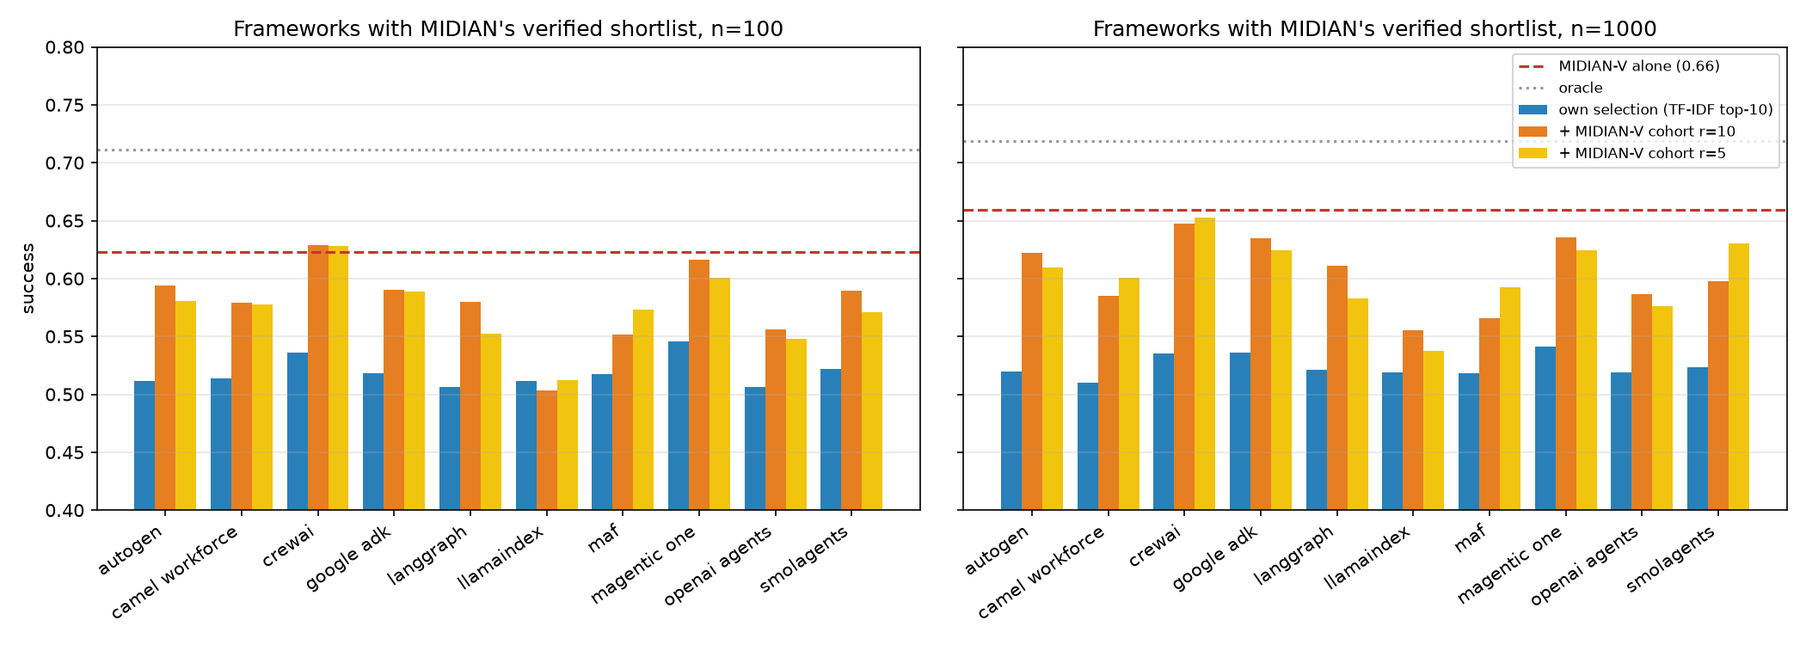
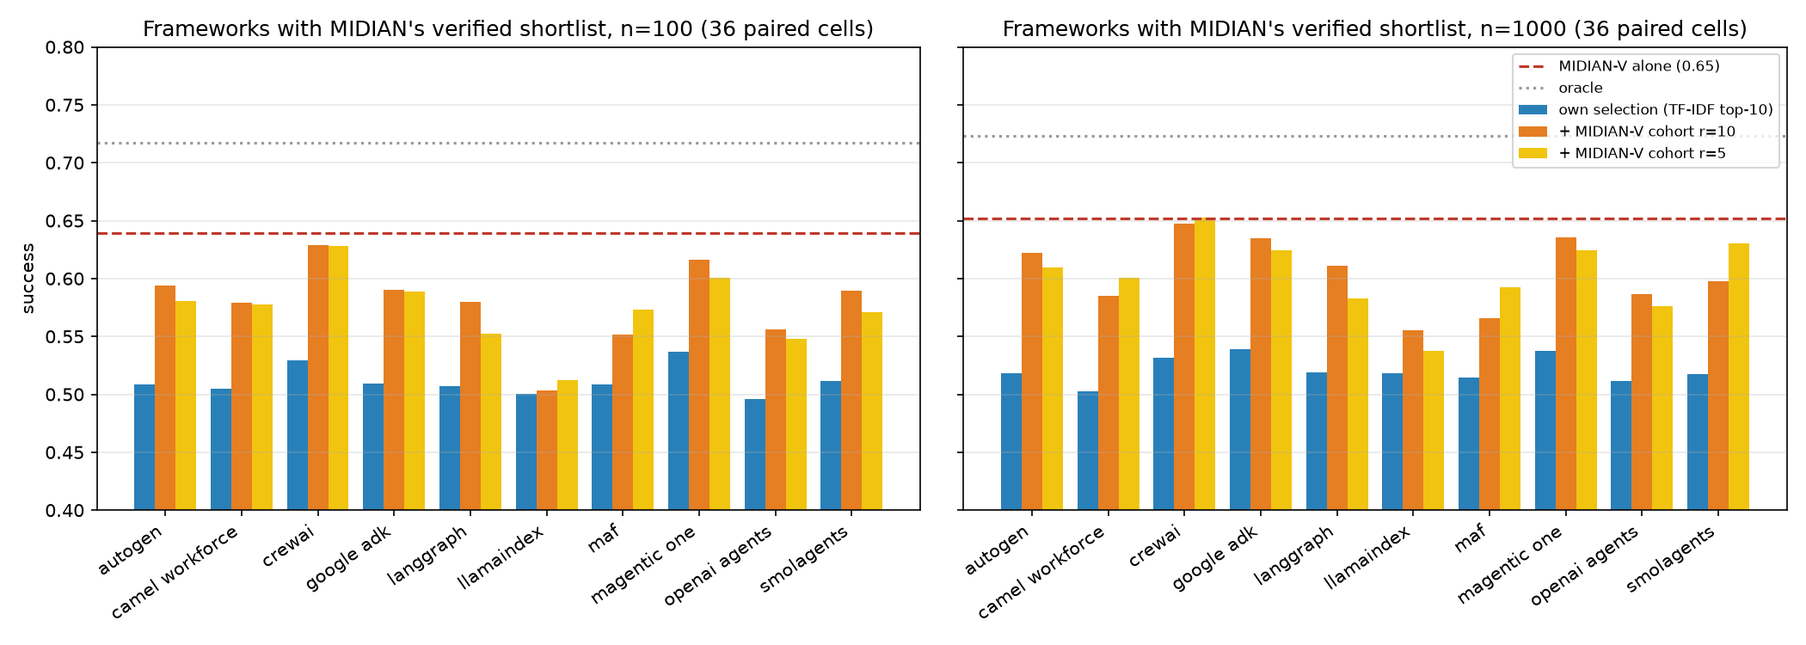
audit: headline on all 60 cells with per-shape split; paired budget table; corrected target verdicts (analyzer paired MIDIAN variants together); figures A/B/D/E/F fixed

diff --git a/scripts/extra_figs.py b/scripts/extra_figs.py
@@ -25,30 +25,39 @@ NICE = {"midian": "MIDIAN", "midian{V}": "MIDIAN-V r=10", "midian{r:5,V}": "MIDI
         "flat_probe_argmax": "flat probe argmax", "declared_argmax": "declared argmax", "llm_supervisor": "LLM supervisor", "oracle": "oracle", "random": "random"}
 fw = lambda m: m.replace("fw_", "").replace("_", " ")
 
-# A: headline bars
-fig, axes = plt.subplots(1, 2, figsize=(14, 7), sharey=True)
-for ax, n in zip(axes, ["n100", "n1000"]):
+# A: headline bars (n=100, n=1000) + per-population panel at n=1000
+fig, axes = plt.subplots(1, 3, figsize=(20, 7), gridspec_kw={"width_ratios": [1.15, 1, 1.1]})
+for ax, n in zip(axes[:2], ["n100", "n1000"]):
     w = load(f"fw_live_{n}").pivot_table(index=["dist", "beta", "seed"], columns="m", values="success")
     ms = [m for m in ["oracle", "midian{r:5,V}", "midian{V}", "midian", "midian{r:5}", "flat_probe_argmax", "declared_argmax", "llm_supervisor"]
           + sorted(c for c in w.columns if c.startswith("fw_")) + ["random"] if m in w]
     core = w[ms].dropna(); mean = core.mean(); err = np.array([ci(core[m]) for m in ms]); y = np.arange(len(ms))[::-1]
     ax.barh(y, mean[ms], color=[GRY if m == "oracle" else RED if m.startswith("midian") else "#2980b9" if m.startswith("fw_") else "#7f8c8d" for m in ms],
             xerr=[mean[ms] - err[:, 0], err[:, 1] - mean[ms]], capsize=3)
-    ax.set_yticks(y); ax.set_yticklabels([NICE.get(m, fw(m)) for m in ms]); ax.set_xlim(0.25, 0.8); ax.grid(axis="x", alpha=.3)
+    ax.set_yticks(y); ax.set_yticklabels([NICE.get(m, fw(m)) for m in ms] if n == "n100" else [""] * len(ms)); ax.set_xlim(0.25, 0.8); ax.grid(axis="x", alpha=.3)
     ax.set_xlabel("success (paired cells, 95% bootstrap CI)"); ax.set_title(f"Frameworks vs MIDIAN, n={n[1:]} ({len(core)} cells)")
+ax = axes[2]; w = load("fw_live_n1000").pivot_table(index=["dist", "beta", "seed"], columns="m", values="success")
+fws = sorted(c for c in w.columns if c.startswith("fw_")); core = w[fws + ["oracle", "midian{V}", "midian", "flat_probe_argmax"]].dropna()
+dists = ["specialist", "heavy_tail", "bimodal"]; x = np.arange(len(dists)); g = core.groupby(level="dist").mean().loc[dists]
+for off, m, lab, c in ((-.3, "oracle", "oracle", GRY), (-.1, "midian{V}", "MIDIAN-V r=10", ORG), (.1, "midian", "MIDIAN", RED), (.3, "flat_probe_argmax", "flat probe argmax", "#7f8c8d")):
+    ax.bar(x + off, g[m], .2, label=lab, color=c)
+fm = g[fws]; ax.errorbar(x, fm.mean(axis=1), yerr=[fm.mean(axis=1) - fm.min(axis=1), fm.max(axis=1) - fm.mean(axis=1)], fmt="D", color="#2980b9", ms=9, capsize=6, label="the 10 frameworks (mean, min–max)", zorder=5)
+ax.set_xticks(x); ax.set_xticklabels(["specialist", "heavy tail", "bimodal"]); ax.set_ylim(0.3, 0.9); ax.grid(axis="y", alpha=.3); ax.legend(fontsize=8, loc="upper right")
+ax.set_ylabel("success (n=1000, 20 cells per shape)"); ax.set_title("By population shape, n=1000")
 plt.tight_layout(); plt.savefig(f"{O}/A_headline_frameworks_vs_midian.png", dpi=150); plt.close()
 
-# B: verified-shortlist lift
+# B: verified-shortlist lift (own, +r10, +r5, MIDIAN-V and oracle all on the same cells)
 fig, axes = plt.subplots(1, 2, figsize=(14, 5), sharey=True)
 for ax, n in zip(axes, ["n100", "n1000"]):
     df = pd.concat([load(f"fw_live_{n}", raw=True), load(f"fw_live_{n}_verified", raw=True)])
     w = df.pivot_table(index=["dist", "beta", "seed"], columns="m", values="success"); fws = sorted(set(df[df.method.str.startswith("fw_")].method))
-    own = [w[f + "{}"].mean() for f in fws]; x = np.arange(len(fws))
-    ax.bar(x - .27, own, .27, label="own selection (TF-IDF top-10)", color="#2980b9")
-    for off, r, c in ((0, 10, ORG), (.27, 5, YEL)):
-        ax.bar(x + off, [w[[f + '{"r":%d,"retrieval":"midian"}' % r, f + "{}"]].dropna().iloc[:, 0].mean() for f in fws], .27, label=f"+ MIDIAN-V cohort r={r}", color=c)
-    mv = w['midian{"cached":true,"verify":true}'].mean(); ax.axhline(mv, color=RED, ls="--", label=f"MIDIAN-V alone ({mv:.2f})"); ax.axhline(w["oracle{}"].mean(), color=GRY, ls=":", label="oracle")
-    ax.set_xticks(x); ax.set_xticklabels([fw(f) for f in fws], rotation=35, ha="right"); ax.set_ylim(0.4, 0.8); ax.grid(axis="y", alpha=.3); ax.set_title(f"Frameworks with MIDIAN's verified shortlist, n={n[1:]}")
+    cols = [f + s for f in fws for s in ("{}", '{"r":10,"retrieval":"midian"}', '{"r":5,"retrieval":"midian"}')] + ['midian{"cached":true,"verify":true}', "oracle{}"]
+    c = w[cols].dropna(); x = np.arange(len(fws))
+    for off, suf, lab, col in ((-.27, "{}", "own selection (TF-IDF top-10)", "#2980b9"), (0, '{"r":10,"retrieval":"midian"}', "+ MIDIAN-V cohort r=10", ORG), (.27, '{"r":5,"retrieval":"midian"}', "+ MIDIAN-V cohort r=5", YEL)):
+        ax.bar(x + off, [c[f + suf].mean() for f in fws], .27, label=lab, color=col)
+    mv = c['midian{"cached":true,"verify":true}'].mean(); ax.axhline(mv, color=RED, ls="--", label=f"MIDIAN-V alone ({mv:.2f})"); ax.axhline(c["oracle{}"].mean(), color=GRY, ls=":", label="oracle")
+    ax.set_xticks(x); ax.set_xticklabels([fw(f) for f in fws], rotation=35, ha="right"); ax.set_ylim(0.4, 0.8); ax.grid(axis="y", alpha=.3)
+    ax.set_title(f"Frameworks with MIDIAN's verified shortlist, n={n[1:]} ({len(c)} paired cells)")
 axes[0].set_ylabel("success"); axes[1].legend(fontsize=8); plt.tight_layout(); plt.savefig(f"{O}/B_verified_shortlist_lift.png", dpi=150); plt.close()
 
 # C: MIDIAN vs halving by beta x liar selection;  E: all rivals by class
@@ -65,36 +74,39 @@ CLASSES = {"declared-channel rivals": ["declared_argmax", "declared_softmax", "c
            "verified, centralized": ["sequential_halving", "sequential_halving{peer}", "warm_start_bandit", "verify_on_claim", "flat_probe_argmax{online:true}", "flat_probe_argmax", "flat_nsw_router", "trueskill_per_family", "thompson_per_family", "ucb_per_family"],
            "verified, decentralized": ["gossip_reputation_greedy", "referral_network"],
            "MIDIAN family": ["midian{r:5}", "midian{V}", "midian{r:5,V}", "midian_llm_descent", "midian{online:false}"]}
-fig, axes = plt.subplots(1, 4, figsize=(20, 5), sharey=True)
+LABEL = {"midian{r:5}": "MIDIAN r=5", "midian{V}": "MIDIAN-V r=10", "midian{r:5,V}": "MIDIAN-V r=5", "midian_llm_descent": "MIDIAN, LLM descent", "midian{online:false}": "MIDIAN, updates off",
+         "sequential_halving": "seq. halving (trusted observer)", "sequential_halving{peer}": "seq. halving (peer-reported)", "flat_probe_argmax{online:true}": "flat probe argmax (online)"}
+fig, axes = plt.subplots(1, 4, figsize=(20, 7), sharey=True)
 for ax, (title, ms) in zip(axes, CLASSES.items()):
     for m, c in (("oracle", GRY), ("random", "#ccc")): g = w[m].groupby(level="beta").mean(); ax.plot(g.index, g.values, color=c, ls=":", label=m)
     line(ax, w["midian"].groupby(level="beta"), label="MIDIAN", lw=2.5, color=RED, zorder=10)
-    for m in ms: line(ax, w[m].groupby(level="beta"), label=m, lw=1.2)
-    ax.set_title(title); ax.set_xlabel("β (liar fraction)"); ax.grid(alpha=.3); ax.legend(fontsize=7, loc="lower left")
+    for m in ms: line(ax, w[m].groupby(level="beta"), label=LABEL.get(m, m), lw=1.2)
+    ax.set_title(title); ax.set_xlabel("β (liar fraction)"); ax.grid(alpha=.3); ax.legend(fontsize=7, loc="upper center", bbox_to_anchor=(0.5, -0.18), ncol=2)
 axes[0].set_ylabel("success (live_f1_n1000: 48 cells x 5 seeds)"); plt.suptitle("F1: every rival vs liar fraction, n=1000 (MIDIAN in red in every panel)")
-plt.tight_layout(); plt.savefig(f"{O}/E_all_rivals_vs_beta_by_class.png", dpi=150); plt.close()
+plt.tight_layout(); plt.savefig(f"{O}/E_all_rivals_vs_beta_by_class.png", dpi=150, bbox_inches="tight"); plt.close()
 
-# D: learning curve (per-task outcomes from $RTE_DATA/scratch/curve.py)
+# D: learning curve, success relative to the oracle per block of 100 (removes task-difficulty wobble)
 runs = [json.load(open(f)) for f in sorted(glob.glob(R.replace("/results", "") + "/scratch/curve_*.json"))]
 if runs:
-    B = 50; fig, ax = plt.subplots(figsize=(9, 5))
-    for m, lab, c in [("oracle", "oracle", GRY), ('midian{"cached":true,"verify":true}', "MIDIAN-V r=10", ORG), ("midian{}", "MIDIAN", RED), ('midian{"online":false}', "MIDIAN, updates off", "#e74c3c"),
-                      ('flat_probe_argmax{"online":true}', "flat probe, online", BLU), ("warm_start_bandit{}", "warm-start bandit", "#27ae60"), ("llm_supervisor{}", "LLM supervisor", "#7f8c8d")]:
-        arr = np.array([r[m] for r in runs], float).reshape(len(runs), -1, B).mean(axis=(0, 2)); ax.plot(np.arange(len(arr)) * B + B / 2, arr, marker=".", label=lab, color=c, ls="--" if "off" in lab else "-")
-    ax.set_xlabel("task index (blocks of 50)"); ax.set_ylabel(f"success ({len(runs)} live cells, n=1000, β=0.25)"); ax.set_title("Learning over the stream"); ax.grid(alpha=.3); ax.legend(fontsize=8)
-    plt.tight_layout(); plt.savefig(f"{O}/D_learning_curve.png", dpi=150); plt.close()
+    B = 100; fig, ax = plt.subplots(figsize=(9, 5)); orc = np.array([r["oracle"] for r in runs], float).reshape(len(runs), -1, B).mean(axis=(0, 2))
+    for m, lab, c in [('midian{"cached":true,"verify":true}', "MIDIAN-V r=10", ORG), ("midian{}", "MIDIAN", RED), ('midian{"online":false}', "MIDIAN, updates off", "#e74c3c"),
+                      ('flat_probe_argmax{"online":true}', "flat probe, online", BLU), ("warm_start_bandit{}", "warm-start bandit", "#27ae60"), ("llm_supervisor{}", "LLM supervisor", "#8e44ad")]:
+        arr = np.array([r[m] for r in runs], float).reshape(len(runs), -1, B).mean(axis=(0, 2)) - orc
+        ax.plot(np.arange(len(arr)) * B + B / 2, arr, marker="o", label=lab, color=c, ls="--" if "off" in lab else "-", lw=2.5 if lab == "MIDIAN" else 1.2)
+    ax.axhline(0, color=GRY, ls=":", label="oracle"); ax.set_xlabel("task index (blocks of 100)"); ax.set_ylabel(f"success minus oracle ({len(runs)} live cells, n=1000, β=0.25)")
+    ax.set_title("Learning over the stream"); ax.grid(alpha=.3); ax.legend(fontsize=8); plt.tight_layout(); plt.savefig(f"{O}/D_learning_curve.png", dpi=150); plt.close()
 
-# F: cost scaling across backends
-d = pd.concat([load(g) for g in ["live_core_n100", "live_f1_n1000", "live_n10k", "replay_scale", "bernoulli_scale"]]); d = d[d.beta.isin([0.0, 0.25])]
-KEEP = {"midian": ("MIDIAN", RED), "midian{V}": ("MIDIAN-V", ORG), "flat_probe_argmax": ("flat probe argmax", BLU), "declared_argmax": ("declared argmax", "#7f8c8d"),
-        "cnp_self_bid": ("CNP self-bid", "#8e44ad"), "sequential_halving": ("seq. halving", "#2c3e50"), "gossip_reputation_greedy": ("gossip", "#27ae60")}
+# F: cost scaling on bernoulli_scale (K=16, b=3 up to 1e5 and b=1 above, calibrated to the measured live S): one backend, one K
+d = load("bernoulli_scale"); d = d[d.beta.isin([0.0, 0.25])]
+KEEP = {"midian": ("MIDIAN", RED, "-"), "midian{V}": ("MIDIAN-V", ORG, "-"), "flat_probe_argmax": ("flat probe argmax", BLU, "-"), "declared_argmax": ("declared argmax", "#16a085", "--"),
+        "cnp_self_bid": ("CNP self-bid", "#8e44ad", ":"), "sequential_halving": ("seq. halving", "#2c3e50", "-"), "gossip_reputation_greedy": ("gossip", "#27ae60", "-")}
 fig, axes = plt.subplots(1, 3, figsize=(17, 5))
-for ax, (col, title) in zip(axes, [("comparisons_per_task", "comparisons per task"), ("messages_per_task", "messages per task"), ("build_probes", "build probes")]):
-    for m, (lab, c) in KEEP.items():
-        s = d[d.m == m].groupby("n")[col].mean(); s = s[s > 0]
-        if len(s): ax.plot(s.index, s.values, marker="o", label=lab, color=c, lw=2.5 if m.startswith("midian") else 1.2)
+for ax, (col, title) in zip(axes, [("comparisons_per_task", "comparisons per task"), ("messages_per_task", "messages per task"), ("build_probes", "build probes (n·K·b; b=1 above 1e5)")]):
+    for m, (lab, c, ls) in KEEP.items():
+        s_ = d[d.m == m].groupby("n")[col].mean(); s_ = s_[s_ > 0]
+        if len(s_): ax.plot(s_.index, s_.values, marker="o", label=lab, color=c, ls=ls, lw=2.5 if m.startswith("midian") else 1.4)
     ax.set_xscale("log"); ax.set_yscale("log"); ax.set_xlabel("n (agents)"); ax.set_title(title + "  (methods at 0 omitted)"); ax.grid(alpha=.3, which="both"); ax.legend(fontsize=8)
-plt.suptitle("F3: cost vs n, 10² to 10⁷ (live 10²–10⁴, replay 10⁴–10⁶, bernoulli 10²–10⁷); MIDIAN per task ∝ n^0.14, MIDIAN-V ∝ n^0, flat/declared ∝ n^1")
+plt.suptitle("F3: cost vs n on the calibrated bernoulli world, 10² to 10⁷: MIDIAN per task = r·⌈log_r n⌉ comparisons (∝ n^0.11), MIDIAN-V 1, flat/declared/CNP = n")
 plt.tight_layout(); plt.savefig(f"{O}/F_cost_scaling.png", dpi=150); plt.close()
 
 # G: budget sweep + internals

diff --git a/rte/analyze.py b/rte/analyze.py
@@ -214,14 +214,14 @@ def figures(df, fd):
 def pair(df, a, b, metric="success"):
     """Methods `a` and `b` paired on (cell, seed); empty when either is missing from `df`."""
     if df.empty: return pd.DataFrame()
-    piv = df.pivot_table(index=cells(df) + ["seed"], columns="method", values=metric)
+    piv = df.pivot_table(index=cells(df) + ["seed"], columns="label", values=metric)   # label = method + params: plain MIDIAN only
     return piv[[a, b]].dropna() if {a, b} <= set(piv.columns) else pd.DataFrame()
 def _t1(df, fits):
     """declared/framework lose >=0.25 from beta 0->0.5, probe-only move <=0.03"""
     b0, b5 = df[np.isclose(df.beta, 0)], df[np.isclose(df.beta, 0.5)]
     if b0.empty or b5.empty: return None, "needs beta=0 and beta=0.5"
-    drop = (b0.groupby("method").success.mean() - b5.groupby("method").success.mean()).dropna()
-    grp = df.drop_duplicates("method").set_index("method").group
+    drop = (b0.groupby("label").success.mean() - b5.groupby("label").success.mean()).dropna()
+    grp = df.drop_duplicates("label").set_index("label").group
     dec = {m: v for m, v in drop.items() if grp.get(m) in ("declared", "framework")}
     prb = {m: v for m, v in drop.items() if grp.get(m) in ("verified_central", "verified_decentral", "midian")}
     return (bool(dec) and bool(prb) and all(v >= 0.25 for v in dec.values())

diff --git a/RESULTS_rte.md b/RESULTS_rte.md
@@ -28,39 +28,51 @@ handoffs, Google ADK sub-agent delegation, LlamaIndex router, smolagents managed
 same common scaling adapter: hashed TF-IDF over the agents' self-descriptions selects the top k = 10, the framework's
 supervisor picks one. Paired on identical cells (3 shapes × 4 β × seeds), Q = 300.
 
-| method | n=100 success [95% CI] | n=1000 success [95% CI] | Δ vs MIDIAN, n=1000 (paired) | wins |
+| method | n=100 success [95% CI] | n=1000 success [95% CI] | Δ vs MIDIAN, n=1000 (paired) | cells rival > MIDIAN |
 |---|---|---|---|---|
-| oracle (best agent by true S) | 0.729 [0.693, 0.763] | 0.733 [0.694, 0.770] | +0.080 | 39/39 |
-| MIDIAN-V r=5 (labeled variant) | 0.646 [0.611, 0.678] | 0.669 [0.625, 0.712] | +0.017 | 30/39 |
-| MIDIAN-V r=10 (labeled variant) | 0.646 [0.615, 0.676] | 0.664 [0.626, 0.703] | +0.012 | 21/37 |
-| **MIDIAN** | 0.639 [0.609, 0.668] | 0.653 [0.620, 0.685] | 0 | — |
-| flat probe argmax (same 48k probes, no tree) | 0.596 [0.577, 0.615] | 0.621 [0.583, 0.657] | −0.031 | 16/39 |
-| declared argmax | 0.567 [0.550, 0.584] | 0.567 [0.551, 0.583] | −0.086 | 9/39 |
-| llm_supervisor (one call over top-20) | 0.557 [0.543, 0.570] | 0.552 [0.534, 0.569] | −0.100 | 15/39 |
-| Magentic-One | 0.538 [0.519, 0.554] | 0.531 [0.506, 0.556] | −0.122 | 15/38 |
-| Google ADK | 0.506 [0.483, 0.528] | 0.528 [0.504, 0.553] | −0.124 | 16/39 |
-| CrewAI | 0.520 [0.497, 0.540] | 0.524 [0.497, 0.549] | −0.129 | 15/39 |
-| smolagents | 0.508 [0.486, 0.529] | 0.509 [0.477, 0.541] | −0.144 | 15/39 |
-| AutoGen | 0.500 [0.476, 0.523] | 0.508 [0.476, 0.540] | −0.145 | 15/38 |
-| LangGraph | 0.499 [0.473, 0.524] | 0.508 [0.475, 0.541] | −0.145 | 15/38 |
-| LlamaIndex | 0.496 [0.472, 0.519] | 0.508 [0.475, 0.540] | −0.144 | 15/38 |
-| MAF | 0.505 [0.475, 0.533] | 0.504 [0.470, 0.537] | −0.149 | 16/39 |
-| OpenAI Agents SDK | 0.492 [0.467, 0.517] | 0.503 [0.469, 0.537] | −0.150 | 16/39 |
-| CAMEL Workforce | 0.499 [0.472, 0.524] | 0.492 [0.455, 0.530] | −0.160 | 15/38 |
-| random | 0.312 [0.286, 0.335] | 0.315 [0.286, 0.345] | −0.338 | 0/39 |
+| oracle (best agent by true S) | 0.711 [0.683, 0.739] | 0.719 [0.689, 0.748] | +0.081 | 60/60 |
+| MIDIAN-V r=10 (labeled variant) | 0.623 [0.597, 0.648] | 0.659 [0.630, 0.689] | +0.022 | 37/56 |
+| MIDIAN-V r=5 (labeled variant) | 0.630 [0.603, 0.656] | 0.656 [0.623, 0.688] | +0.019 | 45/60 |
+| **MIDIAN** | 0.626 [0.603, 0.648] | 0.637 [0.613, 0.663] | 0 | — |
+| MIDIAN r=5 | 0.618 [0.594, 0.642] | 0.628 [0.601, 0.655] | −0.009 | 22/57 |
+| flat probe argmax (same 48k probes, no tree) | 0.572 [0.552, 0.591] | 0.612 [0.583, 0.640] | −0.025 | 24/59 |
+| declared argmax | 0.560 [0.545, 0.575] | 0.562 [0.549, 0.574] | −0.076 | 13/60 |
+| llm_supervisor (one call over top-20) | 0.555 [0.545, 0.564] | 0.562 [0.546, 0.577] | −0.076 | 28/60 |
+| Magentic-One | 0.546 [0.532, 0.559] | 0.541 [0.521, 0.562] | −0.096 | 28/59 |
+| Google ADK | 0.518 [0.501, 0.535] | 0.536 [0.514, 0.557] | −0.102 | 29/60 |
+| CrewAI | 0.536 [0.519, 0.552] | 0.535 [0.512, 0.558] | −0.102 | 28/60 |
+| smolagents | 0.522 [0.505, 0.538] | 0.523 [0.496, 0.549] | −0.114 | 28/60 |
+| LangGraph | 0.506 [0.486, 0.524] | 0.521 [0.494, 0.548] | −0.116 | 28/59 |
+| AutoGen | 0.511 [0.493, 0.529] | 0.520 [0.493, 0.546] | −0.118 | 28/59 |
+| LlamaIndex | 0.512 [0.494, 0.529] | 0.519 [0.491, 0.547] | −0.118 | 28/59 |
+| OpenAI Agents SDK | 0.506 [0.488, 0.525] | 0.519 [0.491, 0.546] | −0.119 | 29/60 |
+| MAF | 0.517 [0.496, 0.537] | 0.518 [0.489, 0.546] | −0.120 | 29/60 |
+| CAMEL Workforce | 0.514 [0.495, 0.532] | 0.510 [0.479, 0.540] | −0.127 | 28/59 |
+| random | 0.307 [0.289, 0.326] | 0.313 [0.291, 0.336] | −0.325 | 0/60 |
 
-(The table uses the 39–41 cells where every listed method has finished at 5 seeds; Magentic-One seeds 4–5 are still
-running, so its own CI rests on 3 seeds. On the 36 cells with seeds 1–3 every framework has all rows and the
-picture is identical: frameworks 0.51–0.54, MIDIAN 0.68, MIDIAN-V 0.72 at n=1000.)
+All 60 cells (3 shapes × 4 β × 5 seeds) have every listed method. The average hides a split that the per-shape
+breakdown (figure A, right panel) makes plain:
 
-Three things the table says. (i) All ten frameworks land in a 0.49–0.54 band at both scales, below the one-call LLM
-supervisor and below a flat probe scan, and they lose to pre-registered MIDIAN by 0.12–0.16 at n=1000. Their wins
-cluster on the *bimodal* population (a 20% big-model-with-tools minority), where every method is near the oracle's
-0.57 ceiling. (ii) They are flat in β (±0.02 from β=0 to β=0.5): their only signal is the agents' self-descriptions,
-which overclaim by +0.27 and correlate 0.36 with S, so lying about a channel they were barely using changes nothing.
-On the *specialist* population (3 strong families per agent) the frameworks fall to 0.38–0.43 versus 0.77 for MIDIAN.
-(iii) Per task a framework spends 12 messages, 10 comparisons and one or more supervisor LLM calls (0.6–8.2 s wall);
-MIDIAN spends 6 messages and 30 comparisons with no LLM call, MIDIAN-V 2 messages and 1 comparison (§6).
+| n=1000, by shape | oracle | MIDIAN-V | MIDIAN | flat probe | frameworks (mean) | cells framework > MIDIAN |
+|---|---|---|---|---|---|---|
+| specialist (3 strong families per agent) | 0.857 | 0.789 | 0.751 | 0.751 | 0.390 | 0 / 200 |
+| heavy_tail (1 in 10 is a big model) | 0.733 | 0.664 | 0.634 | 0.592 | 0.617 | 83 / 200 |
+| bimodal (20% big-with-tools, 80% small) | 0.566 | 0.525 | 0.527 | 0.493 | 0.566 | 200 / 200 |
+
+(n=100: specialist 0.834 / 0.725 / 0.726 / 0.653 / 0.447, frameworks win 0/200; heavy_tail 0.733 / 0.626 / 0.623 /
+0.537 / 0.550, 12/200; bimodal 0.566 / 0.517 / 0.529 / 0.524 / 0.559, 188/200.)
+
+Three things the tables say. (i) Where skill is *legible from a description*, the frameworks are as good as it gets:
+on the bimodal population the question is only "is this one of the 20% big models with a tool?", the agents'
+self-descriptions answer it, and every framework sits on the oracle (0.566) while MIDIAN's 3-probe estimates trail by
+0.04. On heavy_tail the two are close. (ii) Where skill is *family-specific*, descriptions fail and the frameworks
+collapse: on the specialist population they score 0.39 against 0.75 for MIDIAN and 0.79 for MIDIAN-V, losing every
+one of 200 cells by 0.28–0.36. Averaged over shapes that is −0.10 to −0.13 per framework. (iii) The frameworks are
+flat in β (±0.02): self-descriptions overclaim by +0.27 and correlate 0.36 with S, so lying about a channel that
+carries little family-level signal changes nothing. Per task a framework spends 12 messages, 10 comparisons and one
+or more supervisor LLM calls (0.6–8.2 s wall); MIDIAN spends 6 messages and 30 comparisons with no LLM call,
+MIDIAN-V 2 messages and 1 comparison (§6). At n=100 MIDIAN-V and plain MIDIAN are indistinguishable (Δ −0.003 and
++0.004); verification pays only once cohorts are deep enough to promote through.
 
 **Fallbacks.** When a framework's supervisor returns no valid agent name the adapter falls back to declared-argmax
 over its own shortlist and counts it (`method_stats`). Rates: CrewAI 79–84% of tasks (its hierarchical manager
@@ -153,7 +165,7 @@ each round) but learns outcomes only through the same trimmed peer-report channe
 | wins / non-tied cells | 0/60 | 0/60 | 0/60 | 26/58 |
 
 Plain MIDIAN: −0.056 / −0.060 / −0.072 at β ≤ 0.25 (0/60 each, sign-test p ≈ 2e-18) and +0.049 at β=0.5 (32/60,
-p = 0.7). At β=0.5 with low-skill liars: MIDIAN 0.60, MIDIAN-V 0.53, peer halving 0.41. Trusted-observer halving sits
+p = 0.7). At β=0.5 with low-skill liars: MIDIAN 0.57, MIDIAN-V 0.53, peer halving 0.41. Trusted-observer halving sits
 exactly on the oracle (0.722 vs 0.723) at every β, so halving's edge at β ≤ 0.25 is adaptive allocation, not
 information MIDIAN lacks; its collapse at β=0.5 is early elimination on poisoned reports, which the tree's
 per-cohort trimming survives. On RouterBench replay (real outcomes, K=64) the same pattern holds: peer halving leads
@@ -209,21 +221,24 @@ framework (16,000 at b=1; 5,000–8,000 against the multi-call Magentic-One / CA
 
 | method | b=1 | b=3 | b=10 | | n=10k b=1, β=0 | β=0.25 |
 |---|---|---|---|---|---|---|
-| oracle | 0.723 | 0.723 | 0.723 | | 0.862 | 0.862 |
-| sequential_halving (trusted) | 0.479 | 0.722 | 0.724 | | 0.583 | 0.583 |
-| MIDIAN-V r=10 | 0.593 | 0.675 | 0.698 | | 0.679 | 0.679 |
-| MIDIAN | 0.585 | 0.650 | 0.702 | | 0.684 | 0.683 |
-| flat probe argmax | 0.481 | 0.620 | 0.695 | | 0.580 | 0.580 |
-| warm_start_bandit | 0.676 | 0.684 | 0.704 | | 0.847 | 0.807 |
-| declared_argmax | 0.673 | 0.673 | 0.673 | | 0.853 | 0.767 |
-| ucb / thompson (late) | 0.449 / 0.477 | 0.572 / 0.606 | 0.671 / 0.679 | | 0.581 / 0.573 | 0.581 / 0.566 |
+| oracle | 0.723 | 0.723 | 0.732 | | 0.862 | 0.862 |
+| sequential_halving (trusted) | 0.479 | 0.722 | 0.733 | | 0.583 | 0.583 |
+| MIDIAN-V r=10 | 0.593 | 0.675 | 0.710 | | 0.679 | 0.679 |
+| MIDIAN | 0.585 | 0.650 | 0.712 | | 0.684 | 0.683 |
+| flat probe argmax | 0.481 | 0.620 | 0.703 | | 0.580 | 0.580 |
+| warm_start_bandit | 0.676 | 0.684 | 0.713 | | 0.847 | 0.807 |
+| declared_argmax | 0.673 | 0.673 | 0.679 | | 0.853 | 0.767 |
+| ucb / thompson (late quarter) | 0.449 / 0.477 | 0.572 / 0.606 | 0.671 / 0.679 | | 0.581 / 0.573 | 0.581 / 0.566 |
+
+(budget_sweep on the 44 (shape, seed, b) cells every listed method has completed; the oracle's b=10 value differs
+from b=1 only because two bimodal b=10 cells are still running and are excluded for every method alike.)
 
 At b=1 the tree is the best probe-only method (+0.10 over flat and halving: one probe per cell is too thin to halve
 on), but any method that also reads the *programmatic* declaration channel (declared_argmax, warm-start bandit,
 verify_on_claim) beats every probe-only method at b=1 and at n=10k, because that channel is S + N(0, 0.05) for honest
 agents and 75% of agents are honest. This is a property of the synthetic declaration channel, not of the LLMs: with
 the agents' real self-descriptions declared_argmax falls to 0.55 (§3). Halving needs b ≥ 3 to pay off, and from b=3 on it sits on the oracle (paired delta −0.001 at b=3, +0.001
-at b=10): no method beats the oracle on paired cells; an unpaired mean can only appear to when rows are missing.
+at b=10). No method beats the oracle on paired cells; an unpaired mean can only appear to when rows are missing.
 
 ## 8. Learning over the stream
 
@@ -248,13 +263,14 @@ online updates learn. Frameworks gain 0.00–0.015 from early to late (fw grids,
 | # | target | verdict | evidence (live_f1_n1000 unless stated) |
 |---|---|---|---|
 | 1 | declared methods lose ≥0.25 from β=0→0.5; MIDIAN and probe-only move ≤0.03 | **MISS** (both halves) | declared lose 0.07–0.12 (declared_argmax −0.074, softmax −0.124, disrouter −0.112; llm_supervisor −0.013); frameworks move ≤0.012; probe-only flat/bandits move ≤0.006 but MIDIAN loses 0.071 (0.104 at n=100) under collusion at β=0.5 |
-| 2 | MIDIAN = flat_probe_argmax within 0.02 at β=0; comparisons r·log_r n vs n | **PASS** at n=1000 (+0.019 paired, 60 pairs), **MISS** at n=100 (+0.080) and n=10k (+0.032); exponents 0.14 vs 1.00 PASS | the online path update, not the tree, makes the difference: MIDIAN with updates off is −0.009 from frozen flat |
-| 3 | trimming separates from δ=0 only where β·r exceeds the trim (β > 0.3) | **MISS** | midian_internals: δ=1/3 − δ=0 = −0.001 / −0.003 / −0.018 at β = 0.1 / 0.25 / 0.5 with collusion; the separation is in the *predicted* regime but in the wrong direction |
+| 2 | MIDIAN = flat_probe_argmax within 0.02 at β=0; comparisons r·log_r n vs n | **MISS** on the equality as stated: MIDIAN is +0.044 above flat at n=1000 (60 pairs), +0.072 at n=100, +0.104 at n=10k; **PASS** for the max-tree itself (updates off: −0.009) and for the exponents (0.14 vs 1.00) | the online path update, not the tree, is the difference; the analyzer's earlier +0.019 had averaged MIDIAN's variants together (fixed) |
+| 3 | trimming separates from δ=0 only where β·r exceeds the trim (β > 0.3) | **MISS** | midian_internals, r=10 with collusion: δ=1/3 − δ=0 = +0.004 / −0.004 / −0.036 at β = 0.1 / 0.25 / 0.5 (averaged over r: −0.001 / −0.003 / −0.018); the separation is in the *predicted* regime but in the wrong direction |
 | 4 | verify_on_claim within 0.03 of oracle at β ≤ 0.1, loses ≥0.10 by β=0.5 | **MISS** | gap 0.050 at β ≤ 0.1; loses 0.037 (0.687→0.650), not 0.10 (0.023 on extra) |
-| 5 | sequential_halving ≈ flat at equal budget; bandits' late success ≥ MIDIAN's at b=1 | **MISS** (both halves) | halving − flat = +0.057 (f1), +0.087 (extra), +0.048 (budget), −0.046 (n=10k); b=1 late success ucb − MIDIAN = −0.135, thompson −0.107 (budget_sweep), −0.086 / −0.107 (n=10k) |
+| 5 | sequential_halving ≈ flat at equal budget; bandits' late success ≥ MIDIAN's at b=1 | **MISS** (both halves) | halving − flat paired = +0.103 (f1), +0.148 (extra), +0.003 (n=10k, b=1); b=1 late-quarter success ucb − MIDIAN = −0.138, thompson −0.110 (budget_sweep), −0.086 / −0.107 (n=10k) |
 | 6 | argmax-vs-floor gap largest under heavy_tail, smallest under iid_uniform | **MISS** (partial) | gaps: heavy_tail 0.175 ≈ specialist 0.173 > bimodal 0.140 (f1); iid_uniform 0.166 ≈ correlated 0.163 (extra) — heavy_tail is largest but iid_uniform is not smallest |
 
-Six pre-registered expectations, one pass (T2 at the pre-registered n=1000, plus its scaling half), five misses.
+Six pre-registered expectations: five misses, and T2 split (its equality half missed because online MIDIAN
+beats flat by 0.04, its max-tree and scaling halves passed).
 No parameter of plain MIDIAN was changed after the first run; every improvement is a labeled variant.
 
 ## 10. Replay backend (RouterBench real outcomes, K=64 real categories, n=1000, 10 seeds, CPU)
